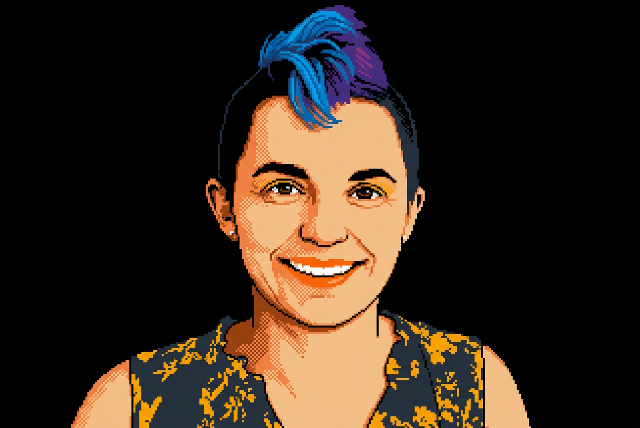
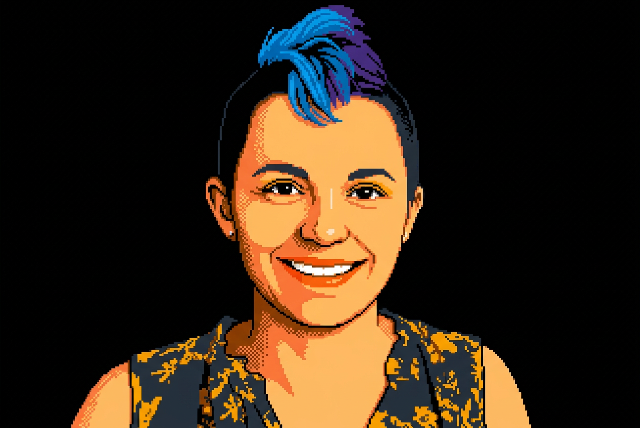
feat: Jessitron portrait — Jess's pick (variant 2); build tolerates missing frames
Claude-Session: https://claude.ai/code/session_01KRJMM4tMmN6TsQ7ggh1rTa

Changed region(s): [[0.0938, 0.0, 0.8438, 1.0]]

diff --git a/js/scenarios.js b/js/scenarios.js
@@ -52,8 +52,7 @@ export const SCENARIOS = [
       'STAFF SITE RELIABILITY ENGINEER\nLANGUAGE LEARNING PLATFORM\n\nYou run a 99.99 percent reliability initiative. Your service graph looks like a plate of spaghetti. You have a log tool, an APM, a metrics system, a tracing tool, and a SIEM.',
       'When incidents happen engineers spend hours pivoting between 5 platforms trying to stitch together a narrative.\n\nLicensing costs are ballooning. Morale is suffering.\n\nHOW DO YOU FIX THIS?',
     ],
-    // Narrator replaced 2026-11 (was JULIE NEUMANN / CMO).
-    // PLACEHOLDER portrait: Jessitron variant 1 is FPO until Jess picks her variant.
+    // Narrator replaced 2026-11 (was JULIE NEUMANN / CMO). Portrait: Jess's pick (variant 2), 2026-11-10.
     narrator: { name: 'JESSITRON', title: 'ENG MANAGER OF DEVELOPER RELATIONS', portrait: 'portrait_jessitron' },
     choiceA: { title: 'HONEYCOMB', sub: 'Unify logs, traces, metrics' },
     choiceB: { title: 'ADD A SIXTH TOOL', sub: 'Correlate the other five' },

diff --git a/tools/build_anim.py b/tools/build_anim.py
@@ -24,7 +24,7 @@ GEN = os.path.join(ROOT, "scratch", "anim_gen")
 REVIEW = os.path.join(ROOT, "scratch", "anim_review.png")
 W, H = 640, 428
 
-PORTRAITS = ["christine", "emily", "graham", "matt", "charity"]
+PORTRAITS = ["christine", "emily", "graham", "matt", "charity", "jessitron"]
 # search windows for the changed region (x, y, w, h) — heads are centred in frame
 EYES_WIN = (140, 60, 360, 190)
 MOUTH_WIN = (160, 170, 320, 170)
@@ -109,6 +109,9 @@ def build_portraits(review):
         plate = load(os.path.join(ASSETS, f"portrait_{who}.png"))
         tiles = [plate]
         for kind, win, thresh in (("blink", EYES_WIN, 110), ("talk1", MOUTH_WIN, 110), ("talk2", MOUTH_WIN, 110)):
+            if not os.path.exists(os.path.join(GEN, f"{who}_{kind}.png")):
+                print(f"  -- {who}_{kind}: no frame yet (static portrait)")
+                continue
             fr = load_frame(f"{who}_{kind}.png")
             dx, dy = composite.align(plate, fr, region=(120, 40, 400, 340), search=4)
             fr = shift(fr, dx, dy)

diff --git a/ASSET_PROMPTS.md b/ASSET_PROMPTS.md
@@ -8,8 +8,8 @@ Rick's working folder (`ASSET_PROMPTS.md` there); this file records what the rep
 Generated in Adobe Firefly with **Gemini 3.1 (Nano Banana 2)**, 3:2, 1K; exported at 640×428
 nearest-neighbour. Common preamble: *"Sierra On-Line EGA pixel art adventure game scene, 320x200,
 1989 era."* Honeycomb palette named by hex in each prompt. `s2_microservices.png` had its
-"Paymeits" label fixed with a Gemini region edit (2026-11-09). `portrait_jessitron.png` is variant
-1 of 4 (FPO).
+"Paymeits" label fixed with a Gemini region edit (2026-11-09). `portrait_jessitron.png` is Jess's pick,
+variant 2 of 4 (2026-11-10).
 
 ## Animation frames (`scratch/anim_gen/*`, consumed by `tools/build_anim.py`)
 

diff --git a/README.md b/README.md
@@ -68,5 +68,5 @@ the claim form (scene sprites load with their scene; if that fails the scene sho
 
 ## Status
 
-See `ASSET_PROMPTS.md` for image provenance. Scenario 4's portrait is Jessitron variant 1 (FPO until
-she picks). The claim form is a placeholder until the HubSpot form exists.
+See `ASSET_PROMPTS.md` for image provenance. Scenario 4's portrait is Jess's pick (variant 2); her blink/talk
+frames are pending. The claim form is a placeholder until the HubSpot form exists.
